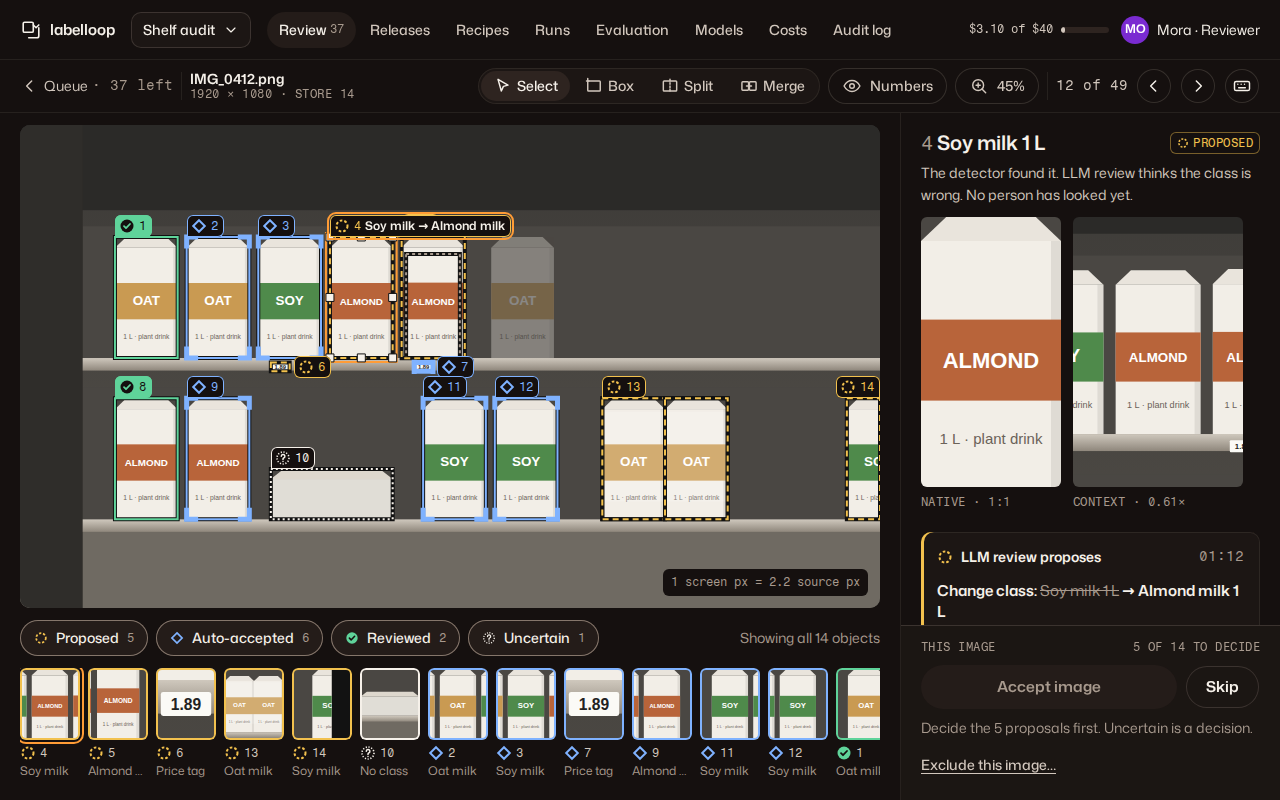
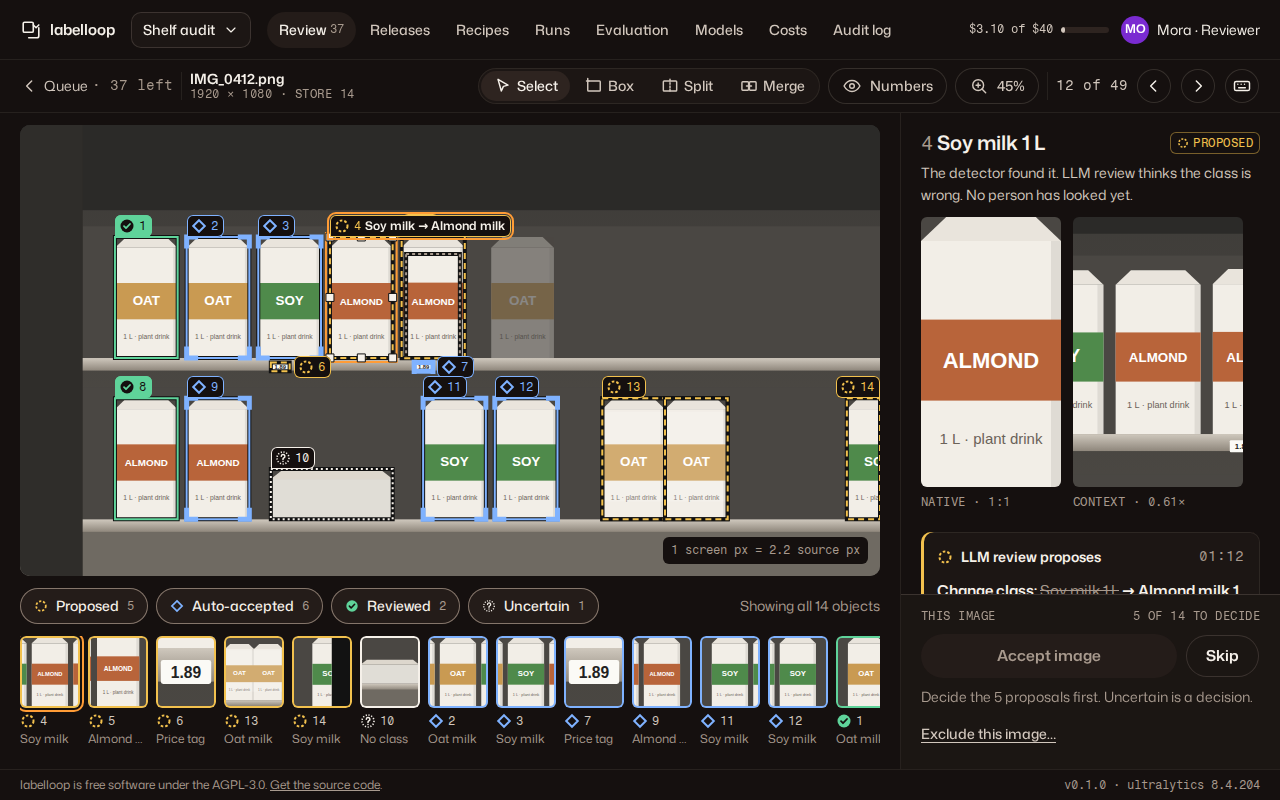
docs(design): review screens keep the footer landmark
P7 mockups gain a one-line source footer inside the viewport height,
matching the kit shell rule; README updated.

diff --git a/docs/design/mockups/src/workbench.css b/docs/design/mockups/src/workbench.css
@@ -525,7 +525,7 @@ nav.sections .count {
 
 @media (min-width: 821px) {
   .review {
-    height: calc(100vh - var(--two-size-header-compact) - var(--two-size-toolbar));
+    height: calc(100vh - var(--two-size-header-compact) - var(--two-size-toolbar) - var(--two-space-7));
     min-height: 0;
   }
   .stage,
@@ -1476,6 +1476,13 @@ tr.hl {
   justify-content: space-between;
   gap: var(--two-space-3);
   flex-wrap: wrap;
+}
+/* P7: the footer landmark stays, as one line inside the viewport height. */
+.foot.slim {
+  padding: 0 var(--two-space-5);
+  min-height: var(--two-space-7);
+  align-items: center;
+  font-size: var(--two-font-size-label);
 }
 
 /* Compact: one layout switch at 820 px */

diff --git a/docs/design/README.md b/docs/design/README.md
@@ -39,7 +39,7 @@ Each mockup has `mockups/png/<name>-1280.png` (1280 × 800 viewport) and `<name>
 - **J1 header** on every screen: product mark · project switcher · sections: Review (with queue count) · Releases · Recipes · Runs · Evaluation · Models · Costs · Audit log · spend status · account menu (Connections, account settings including shortcut preferences, sign out).
 - New project is reached from the project switcher ("New project").
 - Patterns: Image review uses **P7** (review canvas); every other screen uses **P6** (workbench page).
-- The AGPL source offer is in the footer on every P6 page and in the account menu on P7: "labelloop is free software under the AGPL-3.0. Get the source code." (plan §12.3).
+- The AGPL source offer is in the footer on every page: the full footer on P6, a one-line footer inside the viewport height on P7 (kit templates.md shell rule): "labelloop is free software under the AGPL-3.0. Get the source code." (plan §12.3).
 
 ## Roles (plan §12.2)
 
